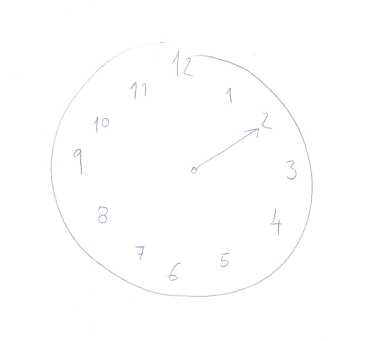
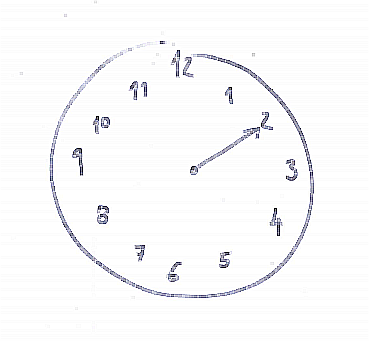
modulus.md added

diff --git a/index.html b/index.html
@@ -59,12 +59,22 @@
 <p>Finally, they fixed it and approached Mariana Trench.</p>
 <p>It was at that point that the news reached them: The box was found by Russians and transported to Moscow. It was now stored in the vault underneath KGB headquarters. There was a whole division of spetsnaz guarding the building. The building itself was filled with special agents, each trained in twelve ways of silently killing a person.</p>
 <p>Continue reading at section 92.</p>
-<h1 id="section-1">13.</h1>
+<h1 id="section-1">5.</h1>
+<p>Imagine it's two o'clock. What will be the time in five hours?</p>
+<p><img src="clock.png" /></p>
+<p>Seven o'clock, right? It's easy. 2 + 5 = 7.</p>
+<p>But here's a trick question: It's ten o'clock. What time will it be in five hours?</p>
+<p>10 + 5 = 15, but there's no such thing as fifteen o'clock.</p>
+<p>When the hand moves beyond 12 it's one o'clock again.</p>
+<p>What we can do is to do the addition and then subtract 12 if the result is larger than 12: 10 + 5 - 12 = 3.</p>
+<p>And here's a question for you: Imagine your friend calls you at 8:00am on Monday and says you are going to meet in 154 hours. On which weekday and exactly at which hour will you meet?</p>
+<p>Once you've solved the problem take that time (the hours part) and multiply it by seven. Continue reading at that section.</p>
+<h1 id="section-2">13.</h1>
 <p>No full story yet, but let's assume a king is at a quest. At some point he realizes that a small item, say a specific hairpin, is needed to complete the quest. He clearly remembers he used to own the hairpin, but he has no idea whether it's still in his possession and if so, where exactly it is. He sends a messenger home asking his counsellors to look for the hairpin and let him know whether they've found it or not.</p>
 <p>King's enemies need that information as well so the next day, when the messager is returning, they ambush him and take the message. Unfortunately, the message is encrypted. The messager himself knows nothing about the pin.</p>
 <p>Many experienced cryptographers are working around the clock for days in row to decrypt the message but to no avail.</p>
 <p>Finally, a kid wanders into the war room. She asks about what they are doing and after some thinking she says: &quot;I know nothing about the high art of cryptography and in no way I can compare to esteemed savants in this room. What I know, though, is that King's pallace has ten thousand rooms, each full of luxury, pictures and finely carved furniture. To find a hairpin in such a place can take weeks if not months. If there was no hairpin it would take at least that long before they could send the messenger back with negative reply. So, if the messager was captured on his way back on the very next day, it can mean only a single thing: The hairpin was found and your encrypted message says so.&quot;</p>
-<h1 id="section-2">20.</h1>
+<h1 id="section-3">20.</h1>
 <p>Here Legrand, having re-heated the parchment, submitted It my inspection. The following characters were rudely traced, in a red tint, between the death's-head and the goat:</p>
 <pre><code>53++!305))6*;4826)4+.)4+);806*;48!8`60))85;]8*:+*8!83(88)5*!;
 46(;88*96*?;8)*+(;485);5*!2:*+(;4956*2(5*-4)8`8*; 4069285);)6
@@ -137,7 +147,7 @@
 <p>&quot;I reflected that it had been a point with the writer to run his words together without division, so as to increase the difficulty of solution. Now, a not overacute man, in pursuing such an object, would be nearly certain to overdo the matter. When, in the course of his composition, he arrived at a break in his subject which would naturally require a pause, or a point, he would be exceedingly apt to run his characters, at this place, more than usually close together. If you will observe the MS., in the present instance, you will easily detect five such cases of unusual crowding. Acting on this hint, I made the division thus:</p>
 <p>'A good glass in the bishop's hostel in the devil's --twenty-one degrees and thirteen minutes --northeast and by north --main branch seventh limb east side --shoot from the left eye of the death's-head --a bee-line from the tree through the shot fifty feet out.'&quot;</p>
 <p>&quot;Even this division,&quot; said I, &quot;leaves me still in the dark.&quot;</p>
-<h1 id="section-3">25.</h1>
+<h1 id="section-4">25.</h1>
 <p>Johannes Trithemius was an medieval German abbott known for his book Polygraphia which is said to be the first published book on cryptography.</p>
 <p>However, in addition to Polygraphia he published a book called Steganographia which seems to be about magic. It describes a way how to deliver secret messages with the help of angels. The book induced a lot of opposition. Those who have read it in manustcipt were frightened by what appeared to be demonic names they thought the book is not appropriate for a pious Christian reader. When the book was finally published in 1606, 90 years after Trithemius' death, it also contained a short work called Clavis (The Key) which in very simple terms explains how what seemed to be incomprehensible diabolic language in book I and book II are actually ciphertexts. Despite that the book was believed to be about magic and was put on the Index of Prohibited Books by Catholic church in 1609.</p>
 <p>All that being said, book III is not explained in Clavis. Moreover it's much shorter than previous two books and contains almost no explanatory text. It's possibly unfinished.</p>
@@ -147,7 +157,7 @@
 <p>Look at them carefully and try to notice anything that may help you decypher them.</p>
 <p>Don't be lazy and actually take a look. This is your chance of getting a feeling of what the actual cryptanalysis feels like.</p>
 <p>If you've spent at least XV minutes trying to solve the puzzle and now you are out of your wits proceed to section LXXV and get your first hint.</p>
-<h1 id="section-4">32.</h1>
+<h1 id="section-5">32.</h1>
 <p>A portal suddenly opened on the starboard ejecting a fleet of imperial pursuit vessels. The propulsion system of my ship got hit before the shield activated. I’ve tried to switch on the backup drive but before it charged to 5% I was already dangling off a dozen tractor beams.</p>
 <p>It wasn’t much of a fight. They’ve just came and picked me up as one would pick up a box of frozen strawberries in a supermarket.</p>
 <p>I must have passed out because of pressure loss because the next thing I remember is being in a plain white room with my hands cuffed behind my back.</p>
@@ -175,7 +185,7 @@
 <p>He orders the torture to proceed only to make the messager change his confession once again.</p>
 <p>...</p>
 <p>“Today, the God, the Compassionate, the Merciful have taught me that there are secrets that cannot be given away. You cannot give them away to save yourself from torture. You cannot give them away to save your kids from being sold to slavery. You cannot give them away to prevent the end of the world. You cannot give them away and whether you want to or not matters little.”</p>
-<h1 id="section-5">54.</h1>
+<h1 id="section-6">54.</h1>
 <p>Here's a simple game for kids that shows how asymmetric encryption works in principle, makes the fact that with only public key at your disposal encryption may be easy while decryption may be so hard as to be basically impossible, intuitive and gives everyone a hands-on experience with a simple asymmetric encryption system.</p>
 <p>Here's how it works:</p>
 <p>Buy a dictionary of some exotic language. The language being exotic makes it improbable that any of the kids involved in the game would understand it. Also, it makes cheating by using Google Translate impossible.</p>
@@ -184,13 +194,13 @@
 <p>To distribute the public key to everyone involved in the game you can either buy multiple copies of English-Eskimo dictionary, which may be expensive, or you can simply place a single copy at a well-known location. In school library, at a local mom-and-pop shop or at a secret place known only to the game participants.</p>
 <p>If a kid wants to send an encrypted message to the owner of the secret key, they just use the public key (English-Eskimo dictionary) to translate the message, word-by-word, from English to Eskimo. The owner of the secret key (Eskimo-English dictionary) can then easily decrypt the message by translating it back into English.</p>
 <p>However, if the message gets intercepted by any other game participant, decrypting it would be an extremely time consuming activity. Each word of the message would have to be found in English-Eskimo dictionary, which would in turn mean scanning the whole dictionary in a page-by-page and word-by-word manner!</p>
-<h1 id="section-6">65.</h1>
+<h1 id="section-7">65.</h1>
 <p>Have you figured out how the trick was done?</p>
 <p>If so, find a key that will turn following cyphertext</p>
 <pre><code>ZUWLCELJCKKXV ZF,MP EOWZ,HB</code></pre>
 <p>into a plaintext saying:</p>
 <p>BEWARE OF THE ONE EYED MAN!</p>
-<h1 id="section-7">78.</h1>
+<h1 id="section-8">78.</h1>
 <p>It's a puppet show. There are two hills on the stage with country border between them. Law-abiding citizen is on the right hill. Smuggler enters the stage on the left.</p>
 <p>SMUGGLER: Hey, you!</p>
 <p>CITIZEN: Who? Me?</p>
@@ -219,14 +229,14 @@
 <p>SMUGGLER: Ok, got it, let's meet there in an hour!</p>
 <p>PATROL: Oh my, oh my. I am much better at de-obfuscation than that moron citizen. I've already got two messages solved. But one has number 56, the other number 110. I have no idea which one is going to be number 18. There's no way I can find the right one in just one hour!</p>
 <p>The curtain comes down. Happy gulping sounds can be heard from the backstage.</p>
-<h1 id="section-8">88.</h1>
+<h1 id="section-9">88.</h1>
 <p><img src="trith1.png" /><br /><img src="trith2.png" /><br /><img src="trith3.png" /><br /><img src="trith4.png" /><br /><img src="trith5.png" /><br /><img src="trith6.png" /><br /><img src="trith7.png" /><br /><img src="trith8.png" /><br /><img src="trith9.png" /></p>
-<h1 id="section-9">92.</h1>
+<h1 id="section-10">92.</h1>
 <p>Professor Krankenstein and his associated held a meeting on board of Amor Patrio, in the middle of Pacific Ocean. People came up with desperate proposals: Let's dig a tunnel underneath Moscow river. Let's blackmail Russians by re-creating the virus and threatening them to disperse it in Russia. Nuke the entire Moskovskaya Oblast! There was no end to wild and desperate proposals.</p>
 <p>Once the stream of proposals dried up, everyone looked at professor Krankenstein, awaiting his decision.</p>
 <p>The silence is almost palpable.</p>
 <p>Professor Krankenstein slowly took out his iconic pipe and lighted it with the paper which had the decryption key written on it.</p>
-<h1 id="section-10">99.</h1>
+<h1 id="section-11">99.</h1>
 <p>It was cold. The winter was approaching in New York. Mr. Xi wrapped his coat tighter to the body and stared into the dark tunnel with desperation. The subway was late. There must have been an accident somewhere. He sighed.</p>
 <p>&quot;Beg your pardon, mister,&quot; said a men standing besides him on the platform. Mr. Xi was not able to tell the accent. It sounded strange but not entirely alien.</p>
 <p>&quot;I have a matter to discuss with you,&quot; said the stranger &quot;but I am not sure how to approach it without making you think I am off my rocker.&quot;</p>

diff --git a/modulus.md b/modulus.md
@@ -1,0 +1,23 @@
+**Explain the modulus operation.**
+
+[[[name:modulus-1 section:5
+
+Imagine it's two o'clock. What will be the time in five hours?
+
+![](clock.png)
+
+Seven o'clock, right? It's easy. 2 + 5 = 7.
+
+But here's a trick question: It's ten o'clock. What time will it be in five hours?
+
+10 + 5 = 15, but there's no such thing as fifteen o'clock.
+
+When the hand moves beyond 12 it's one o'clock again.
+
+What we can do is to do the addition and then subtract 12 if the result is larger than 12: 10 + 5 - 12 = 3.
+
+And here's a question for you: Imagine your friend calls you at 8:00am on Monday and says you are going to meet in 154 hours. On which weekday and exactly at which hour will you meet?
+
+Once you've solved the problem take that time (the hours part) and multiply it by seven. Continue reading at that section.
+
+]]]
